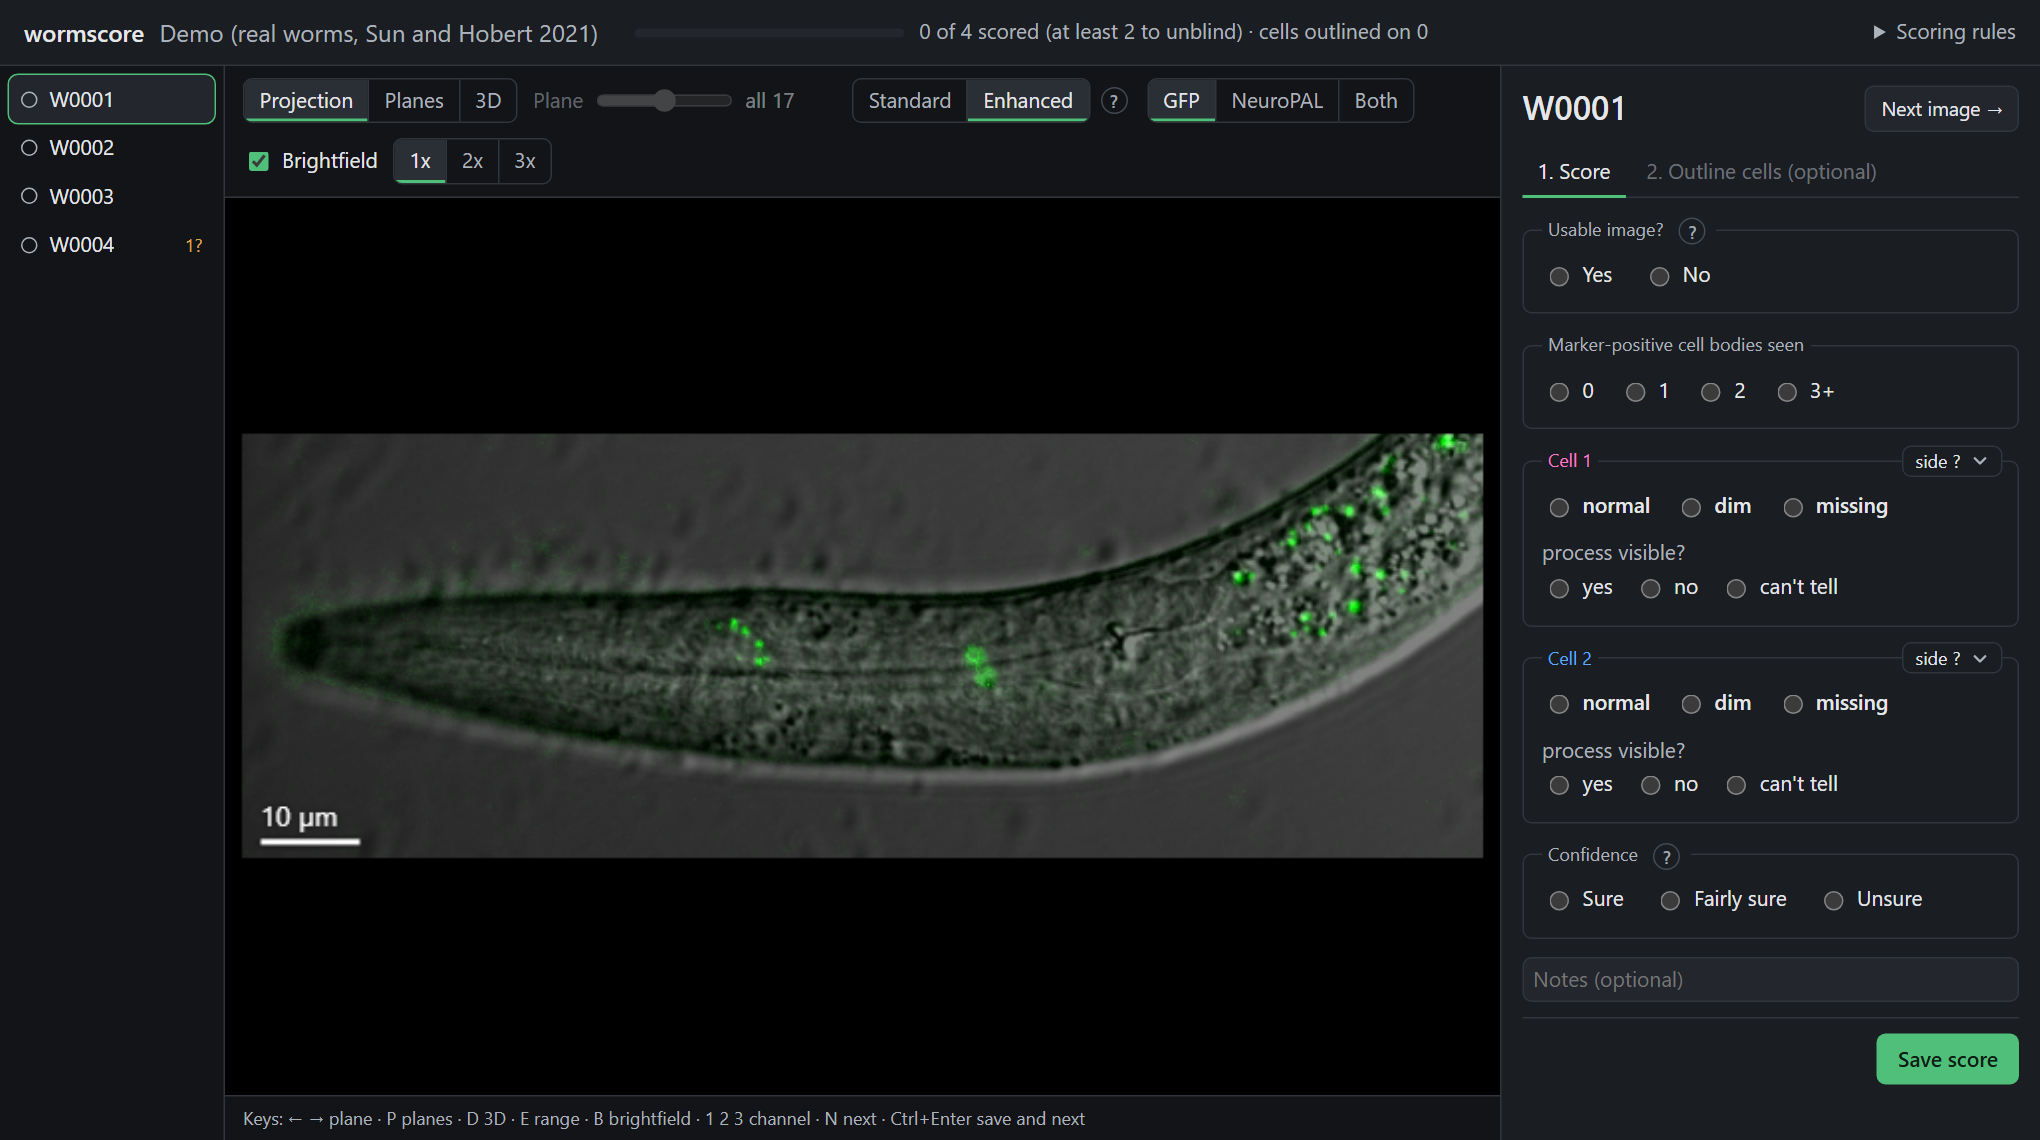
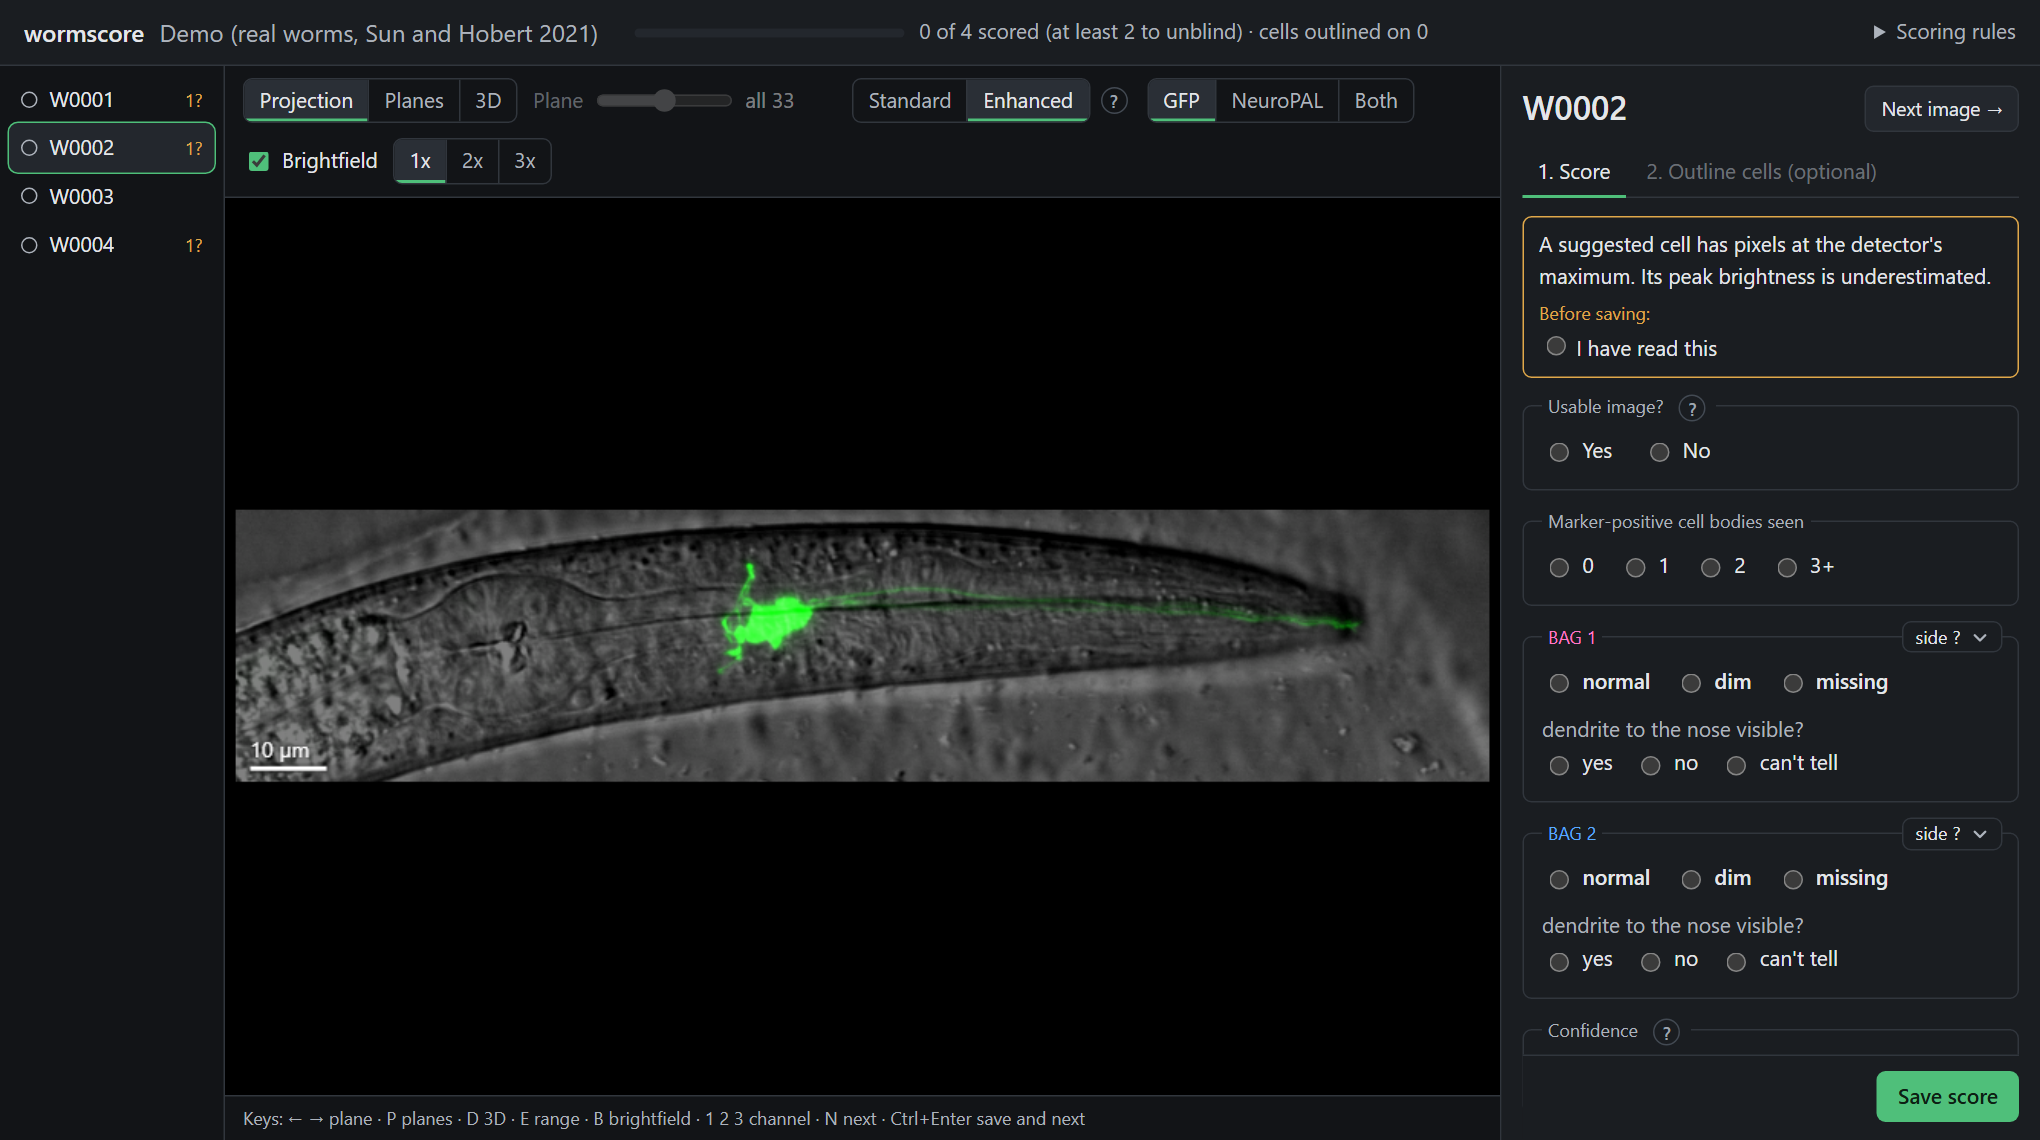
Real-worm demo scores the BAG pair: four flp-17::GFP heads, two L1 and two L2
The demo compared flp-17 with nlp-45, a reporter of other neurons, and asked for the two brightest GFP
cells. flp-17 marks the BAG pair, so every image now shows the two cells the form asks about (BAG 1,
BAG 2, dendrite to the nose). The stages stand in for genotypes; the rules say the size gives the group
away. About 230 MB. New README screenshot.

From the independent review: the other-fluorophore flag fires only for another colour (no shared
laser line), so a relative such as EGFP in an mNeonGreen project is not flagged on every image; a dye
name stored as a number no longer fails the scan; the flag is in METHODS.

diff --git a/src/wormscore/static/home.js b/src/wormscore/static/home.js
@@ -1898,7 +1898,7 @@ async function sideAction(which) {
   if (which === "demo") {
     const real = await ask("Try a demo", "Pick the kind of demo, then choose an empty folder for it.", [
       { value: "sim", label: "Simulated worms", desc: "20 heads with known normal, dim and missing cells. Instant, works offline." },
-      { value: "real", label: "Real worm images", desc: "4 L1 heads from Sun and Hobert 2021 (Zenodo, CC BY 4.0). Downloads about 150 MB once." },
+      { value: "real", label: "Real worm images", desc: "4 larval heads with the BAG neurons marked, from Sun and Hobert 2021 (Zenodo, CC BY 4.0). Downloads about 230 MB once." },
     ]);
     if (!real) return;
     st.log = []; st.since = 0;

diff --git a/src/wormscore/realdemo.py b/src/wormscore/realdemo.py
@@ -1,9 +1,11 @@
 """A demo project with real worm images, downloaded at run time (never stored in the repo).
 
-The images are four L1 heads from Sun and Hobert (2021), shared on Zenodo under CC BY 4.0:
-Zeiss LSM 880 stacks with an endogenous GFP reporter, four NeuroPAL fluorophores and a
-transmitted-light channel. Two reporters stand in for two "genotypes", so the whole workflow
-(inventory, blinding, scoring, unblinding) can be tried on real data. Each file is checked
+The images are four heads from Sun and Hobert (2021), shared on Zenodo under CC BY 4.0: Zeiss
+LSM 880 stacks with the flp-17::GFP reporter, four NeuroPAL fluorophores and a transmitted-light
+channel. flp-17 marks the BAG pair of sensory neurons, so every image shows the two cells the form
+asks about. Two L1 and two L2 larvae stand in for two "genotypes", so the whole workflow (inventory,
+blinding, scoring, unblinding) can be tried on real data. (Until 1.26.18 the demo compared flp-17 with
+nlp-45, a reporter of other neurons, and asked for the two brightest GFP cells.) Each file is checked
 against its MD5 from the Zenodo record and kept in a cache outside the project, so a second
 demo does not download it again.
 """
@@ -19,8 +21,8 @@ RECORD = "https://zenodo.org/records/5602160"
 FILES = {  # name on Zenodo: (md5, bytes)
     "flp-17 L1 Head 1.czi": ("c9723275ef3b75aee867a6be93cb33cd", 31553824),
     "flp-17 L1 Head 2.czi": ("46b043a5adf441ab59b4bb37539ff128", 52442656),
-    "nlp-45 L1 1 Head.czi": ("d6a1df9dbcabc9911ec2307a27656bdc", 36792352),
-    "nlp-45 L1 2 Head.czi": ("afe44fe222d2cbb1003e1a1b75a251a4", 30097440),
+    "flp-17 L2 Head 1.czi": ("e41b23afb5316f3d44ace83a3a0cd474", 69824864),
+    "flp-17 L2 Head 2.czi": ("47296d3fadcc02bf733eaed992617e4f", 77190144),
 }
 CREDIT = (
     "Images: Sun H, Hobert O (2021). Temporal transitions in the post-mitotic nervous system of "
@@ -90,28 +92,37 @@ def make_real_demo(project, log=print, fetch=download, cache=None):
         if not (data / name).exists():
             shutil.copy2(src, data / name)
     (data / "ATTRIBUTION.txt").write_text(CREDIT + "\n", encoding="utf-8")
-    cfg = {
+    cfg = demo_config(data)
+    (project / "config.json").write_text(json.dumps(cfg, indent=2), encoding="utf-8")
+    log(CREDIT)
+    log(f"Real-worm demo project written to {project}")
+    return project
+
+
+def demo_config(data):
+    """The demo's config.json: the BAG pair scored in L1 and L2 heads of flp-17::GFP."""
+    return {
         "project_name": "Demo (real worms, Sun and Hobert 2021)",
         "sources": [{"name": "Sun and Hobert 2021 (Zenodo)", "path": str(data), "original_path": RECORD,
                      "note": "collected by others, CC BY 4.0",
-                     "genotypes": [{"match": "flp-17*", "genotype": "reporter A (flp-17::GFP)"},
-                                   {"match": "nlp-45*", "genotype": "reporter B (nlp-45::GFP)"}]}],
+                     "genotypes": [{"match": "flp-17 L1*", "genotype": "L1 larvae (flp-17::GFP)"},
+                                   {"match": "flp-17 L2*", "genotype": "L2 larvae (flp-17::GFP)"}]}],
         "scoring": {
-            "neurons": ["Cell 1", "Cell 2"],
-            "neuron_questions": [{"id": "process", "label": "process visible?", "options": ["yes", "no", "can't tell"]}],
-            "rules": ["Real L1 heads with an endogenous GFP reporter (practice only; both groups are normal animals).",
-                      "Pick the two brightest GFP cell bodies and score each one normal, dim or missing.",
+            "neurons": ["BAG 1", "BAG 2"],
+            "neuron_questions": [{"id": "process", "label": "dendrite to the nose visible?",
+                                  "options": ["yes", "no", "can't tell"]}],
+            "rules": ["Real L1 and L2 heads with flp-17::GFP, which marks the BAG pair of sensory neurons (practice "
+                      "only; all are normal animals, and the stage stands in for the genotype). L2 heads are "
+                      "larger, so here the group can be guessed from the size: blinding is only practised.",
+                      "Score each BAG cell body normal, dim or missing. The two lie close together behind the "
+                      "nerve ring: step through the planes to tell them apart.",
                       "Score each cell separately; the animal is the unit for statistics."],
         },
         "unblinding": {"min_scored_worms": 2},
         # 1.23.0: the four NeuroPAL colours shown with the reporter (keys 1, 2 and 3 switch); suggested cells
         # are found on the GFP reporter, since the task is to pick GFP cells
         "identity": {"preset": "NeuroPAL", "spots_from": "reporter"},
-        # The frame every image is drawn in is 188 um wide by default (940 x 0.20 um). These four heads are
-        # 110 to 125 um wide, so a 128 um frame shows them at the full width of the window.
-        "display": {"frame_px": 640},
+        # The frame every image is drawn in is 188 um wide by default (940 x 0.20 um). These heads are 110 to
+        # 164 um wide, so a 166 um frame shows them at one scale, the widest at the full width of the window.
+        "display": {"frame_px": 830},
     }
-    (project / "config.json").write_text(json.dumps(cfg, indent=2), encoding="utf-8")
-    log(CREDIT)
-    log(f"Real-worm demo project written to {project}")
-    return project

diff --git a/tests/test_realdemo.py b/tests/test_realdemo.py
@@ -25,10 +25,23 @@ def test_real_demo_project_from_cache(tmp_path):
     cfg = json.loads((project / "config.json").read_text(encoding="utf-8"))
     rules = cfg["sources"][0]["genotypes"]
     assert all(any(n.startswith(r["match"].rstrip("*")) for r in rules) for n in realdemo.FILES)
-    # the frame fits these heads (the widest is 125.4 um), so they fill the window instead of two thirds of it
+    # the frame fits these heads (the widest is 164.2 um), so every head is drawn at the same scale
     from wormscore import config
     display = config.load(project)["display"]
-    assert 125.4 < display["frame_px"] * display["display_um_per_px"] < 135
+    assert 164.2 < display["frame_px"] * display["display_um_per_px"] < 172
+
+
+def test_the_real_demo_scores_one_identified_pair_of_neurons():
+    """Every image shows the same reporter, flp-17::GFP, which marks the BAG pair, so the two cells on the
+    form are the cells in every image. The two stages stand in for the two genotypes (the old demo
+    compared two reporters in different neurons, and asked for "the two brightest GFP cells")."""
+    assert all(n.startswith(("flp-17 L1 ", "flp-17 L2 ")) for n in realdemo.FILES)
+    assert sum(n.startswith("flp-17 L1 ") for n in realdemo.FILES) == sum(n.startswith("flp-17 L2 ") for n in realdemo.FILES) == 2
+    assert all(len(md5) == 32 for md5, _ in realdemo.FILES.values())
+    cfg = realdemo.demo_config("data")
+    assert cfg["scoring"]["neurons"] == ["BAG 1", "BAG 2"]
+    assert [g["match"] for g in cfg["sources"][0]["genotypes"]] == ["flp-17 L1*", "flp-17 L2*"]
+    assert any("BAG" in rule for rule in cfg["scoring"]["rules"])
 
 
 def test_a_download_that_stalls_is_tried_again_then_reported_plainly(tmp_path, monkeypatch):

diff --git a/tests/test_olympus_oir.py b/tests/test_olympus_oir.py
@@ -84,6 +84,15 @@ def test_a_reporter_that_names_another_fluorophore_is_flagged_not_changed():
     assert R.other_fluorophore(["MARKER"], ["mcherry"], GFP) == [
         "the GFP channel is named mcherry in the file, another fluorophore: check the channel roles"]
     assert R.other_fluorophore(["OTHER", "MARKER"], [None, ""], GFP) == []
+    assert R.other_fluorophore(["MARKER"], [488], GFP) == []            # oiffile reads an unquoted number as int
+    # a relative excited by the same laser lines is not flagged: a lab whose software has no entry for its
+    # fluorophore would see the flag on every image (independent review)
+    assert R.other_fluorophore(["MARKER"], ["EGFP"], marker(preset="mNeonGreen")) == []
+    assert R.other_fluorophore(["MARKER"], ["mCherry"], marker(preset="mScarlet")) == []
+    gcamp = copy.deepcopy(GFP)
+    gcamp["marker"] = {"label": "GCaMP", "dye_names": ["GCaMP6s"], "excitation_nm": [488], "channel_name_prefixes": []}
+    assert R.other_fluorophore(["MARKER"], ["EGFP"], gcamp) == []
+    assert R.other_fluorophore(["MARKER"], ["EYFP"], GFP) != []          # 514 nm against 488 nm
     ident = copy.deepcopy(GFP)
     ident["identity"] = {**C.PRESETS["mCherry"]}
     assert R.other_fluorophore(["MARKER", "IDENTITY"], ["EGFP", "TagBFP"], ident) == [

diff --git a/src/wormscore/readers.py b/src/wormscore/readers.py
@@ -168,12 +168,15 @@ def other_fluorophore(roles, fluors, cfg):
     out = []
     for role, m in (("MARKER", cfg["marker"]), ("IDENTITY", cfg.get("identity"))):
         i = pick(roles, role) if m else None
-        dye = (fluors[i] or "").strip() if i is not None and i < len(fluors) else ""
-        own = {d.casefold() for d in m.get("dye_names") or []} if m else set()
+        dye = str(fluors[i] or "").strip() if i is not None and i < len(fluors) else ""
+        own = {str(d).casefold() for d in m.get("dye_names") or []} if m else set()
         if not dye or dye.casefold() in own:
             continue
+        # only another colour: a relative excited by the same lines (EGFP in an mNeonGreen project) is not
+        # flagged, or a lab whose software has no entry for its fluorophore sees it on every image
+        lines = {int(float(x)) for x in m.get("excitation_nm") or []}
         if any(dye.casefold() in {d.casefold() for d in p["dye_names"]} and not own & {d.casefold() for d in p["dye_names"]}
-               for p in C.PRESETS.values()):
+               and not lines & set(p["excitation_nm"]) for p in C.PRESETS.values()):
             out.append(f"the {m['label']} channel is named {dye} in the file, another fluorophore: check the channel roles")
     return out
 

diff --git a/src/wormscore/cli.py b/src/wormscore/cli.py
@@ -19,7 +19,7 @@ def main(argv=None):
     s.add_argument("project")
     s.add_argument("--n", type=int, default=10, help="simulated worms per genotype")
     s.add_argument("--real", action="store_true",
-                   help="download 4 real worm heads (about 150 MB, CC BY 4.0) instead of simulating")
+                   help="download 4 real worm heads (about 230 MB, CC BY 4.0) instead of simulating")
     s.add_argument("--identity", action="store_true",
                    help="add a simulated mCherry identity channel that marks every cell")
     s = sub.add_parser("copy", help="copy a data folder and verify every file by SHA-256")

diff --git a/src/wormscore/launcher.py b/src/wormscore/launcher.py
@@ -158,7 +158,7 @@ class Launcher(tk.Tk):
         d = filedialog.askdirectory(title="Choose an empty folder for the demo project")
         if not d:
             return
-        real = messagebox.askyesno("Demo", "Use real worm images? This downloads 4 heads (about 150 MB, "
+        real = messagebox.askyesno("Demo", "Use real worm images? This downloads 4 heads (about 230 MB, "
                                            "CC BY 4.0).\n\nNo makes 20 simulated worms instead.")
         self.project.set(d)
         self._remember()

diff --git a/CHANGELOG.md b/CHANGELOG.md
@@ -26,12 +26,14 @@ version can be downloaded from the [Releases page](https://github.com/arjunkai/w
 - Build blind set is about 2.4 times faster on large stacks, and with an identity channel uses 2.5 GB
   instead of 6.1 GB at most (4 images of 2048 x 2048 x 50). Opening an image in Browse before the build
   is about 3 times faster. Every file a build writes is the same, byte for byte.
-- Scan data flags an image whose reporter or identity channel the file names for another fluorophore,
+- Scan data flags an image whose reporter or identity channel the file names for a fluorophore of another colour,
   for example a channel named mCherry that was taken as GFP because it was excited at 488 nm (16 public
   Olympus files did this). The channel keeps its role; the flag asks you to check it.
 - A Build-card line about a new scan could stay as it was when the key or the scan was written twice
   within a second or two (drives formatted FAT32 or exFAT keep file times to 2 seconds).
-- The real-worm demo shows its images larger (a display frame that fits them).
+- The real-worm demo shows one reporter, flp-17::GFP, which marks the BAG pair, in two L1 and two L2
+  heads, and the form asks about BAG 1 and BAG 2. It compared flp-17 with nlp-45, a reporter of other
+  neurons, and asked for the two brightest GFP cells. It downloads about 230 MB (was 150 MB).
 - The user guide is organised by step and feature; the app's Guide button opens it. What changed in
   each version is now in this file; ROADMAP.md lists what is planned.
 - **Who is affected:**
@@ -45,8 +47,8 @@ version can be downloaded from the [Releases page](https://github.com/arjunkai/w
     After it, the Build card names the coded images whose day is now read. Before scoring, a rebuild
     uses the new day (choose the slide images again so theirs are read the same way); once scoring has
     begun, coded images keep the correction they were scored with.
-  - Projects whose files name a different fluorophore for the reporter channel: the next Scan data adds
-    the flag; roles, codes and results do not change.
+  - Projects whose files name a fluorophore of another colour for the reporter or identity channel: the
+    next Scan data adds the flag; roles, codes and results do not change.
   - Everyone else: nothing changes in scores, measurements or reports. `inventory.csv` gains an
     `acquired_day` column at the next Scan data.
 

diff --git a/README.md b/README.md
@@ -26,7 +26,7 @@ the cells, and writes the tables, the tests and a draft Methods paragraph when y
 <p align="center">
   <img src="https://raw.githubusercontent.com/arjunkai/wormscore/main/docs/img/scoring.png" alt="The scoring page: a coded image of a worm head with brightfield on, and the questions for each cell on the right" width="820">
 </p>
-<p align="center"><sub>The scoring page. The image is from the real-worm demo: an L1 head with a GFP reporter, from Sun and Hobert 2021 (<a href="https://doi.org/10.5281/zenodo.5602160">Zenodo 5602160</a>, CC BY 4.0).</sub></p>
+<p align="center"><sub>The scoring page. The image is from the real-worm demo: an L2 head with the BAG neurons and their dendrites marked (flp-17::GFP), from Sun and Hobert 2021 (<a href="https://doi.org/10.5281/zenodo.5602160">Zenodo 5602160</a>, CC BY 4.0).</sub></p>
 
 - **Blind:** every image gets a random code. Genotypes and file names stay in a sealed key until you
   finish scoring.
@@ -85,7 +85,7 @@ wormscore app my_demo
 
 The demo is 20 simulated worm heads in two genotypes, with a `demo_truth.csv` to check your calls
 against. **Real worm images** in the demo dialog (`wormscore demo my_demo --real`) downloads four real
-L1 heads from [Sun and Hobert 2021](https://doi.org/10.1038/s41586-021-04071-4)
+larval heads with the BAG neurons marked (flp-17::GFP) from [Sun and Hobert 2021](https://doi.org/10.1038/s41586-021-04071-4)
 ([Zenodo 5602160](https://doi.org/10.5281/zenodo.5602160), CC BY 4.0).
 
 ## How a project goes

diff --git a/docs/GUIDE.md b/docs/GUIDE.md
@@ -535,14 +535,16 @@ controls with two normal cells, and mutants with cells that are normal, dim or m
 identity channel that marks every cell.
 
 **Real worms.** `wormscore demo my_demo --real`, or **Real worm images** in the demo dialog,
-downloads four L1 heads with an endogenous GFP reporter, about 150 MB, from
+downloads four larval heads with the flp-17::GFP reporter, about 230 MB, from
 [Sun and Hobert 2021](https://doi.org/10.1038/s41586-021-04071-4)
 ([Zenodo 5602160](https://doi.org/10.5281/zenodo.5602160), CC BY 4.0).
 
 - Each file is checked against its MD5 from the Zenodo record and cached in
   `%LOCALAPPDATA%\wormscore\demo_cache` (`~/.cache` elsewhere). The images are not part of this
   repository.
-- The two reporters stand in for two genotypes. Both are normal animals, so this is for practice.
+- flp-17 marks the BAG pair of sensory neurons, so every image shows the two cells the form asks
+  about. Two L1 and two L2 larvae stand in for two genotypes. All are normal animals, and L2 heads are
+  larger, so the group can be guessed from the size: this is for practice.
 - The animals carry NeuroPAL, so the demo also shows its four colours (keys 1, 2, 3 switch between
   GFP, NeuroPAL and both).
 

diff --git a/docs/METHODS.md b/docs/METHODS.md
@@ -142,6 +142,8 @@ Most of these are a flag in `outputs/inventory.csv`; files that cannot be read a
 
 **Any format**
 
+- The reporter or identity channel is named in the file for a fluorophore of another colour (one
+  excited by other laser lines, for example mCherry on the GFP channel). The channel keeps its role.
 - A dimension wormscore does not use (the tiles of a tile scan, the wavelengths of a lambda scan,
   Airyscan phases): only its first entry is read, and Build warns how many such images are in the
   blind set.
